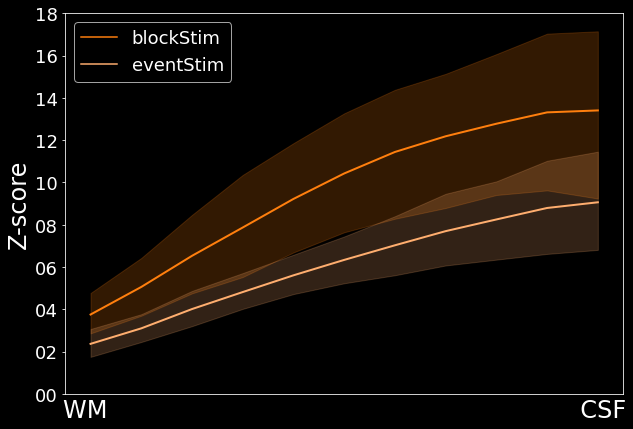
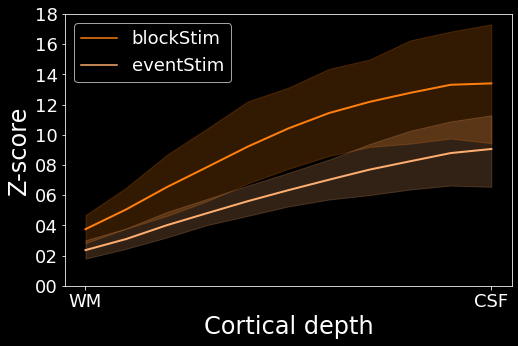
add plotting scripts

diff --git a/code/plotting.py b/code/plotting.py
@@ -25,7 +25,7 @@ plt.style.use('dark_background')
 #########################################
 
 # define figzize
-FS = (10, 7)
+FS = (8, 5)
 
 # define linewidth to 2
 LW = 2
@@ -39,6 +39,224 @@ tickLabelSize = 18
 # define fontsize legend text
 
 legendTextSize = 18
+
+TR = 1.3
+
+###########################################
+########## Plot block timcourses ##########
+###########################################
+
+data = pd.read_csv('../results/blockTimecourseResults.csv')
+
+fig, ax = plt.subplots(figsize=FS)
+
+sns.lineplot(ax=ax, data=data.loc[(data['focus']==focus)], x='x', y='data', hue='modality', palette = palette,linewidth=LW)
+
+
+ax.axvspan(4, 4+(30/TR), color='grey', alpha=0.2, lw=0)
+ax.set_ylabel('Signal change [%]', fontsize=labelSize)
+ax.set_xlabel('Time [s]', fontsize=labelSize)
+ax.legend(loc='lower center', fontsize=tickLabelSize)
+
+values = (np.arange(-4,len(data['x'].unique())-4,4)*TR).round().astype(int)
+spacing = np.arange(0,len(data['x'].unique()),4)
+ax.set_xticks(spacing,values, fontsize=tickLabelSize)
+
+ax.tick_params(axis='y', labelsize=tickLabelSize)
+ax.axhline(0,linestyle='--',color='white')
+plt.savefig('../results/blockTimecourseResults.png',
+    bbox_inches = 'tight')
+plt.show()
+
+
+#########################################
+########## Plot block profiles ##########
+#########################################
+
+# load data
+zscores = pd.read_csv('../results/blocksVsEventsData.csv')
+# Limit plotting to modality, focus and visiotactile stimulation and remove
+# long TR block stimulation for fair comparisons
+tmp = zscores.loc[
+    (zscores['runType']=='blockStim')
+    & (zscores['focus']==focus)
+    & (zscores['contrast']=='visiotactile')
+    & (zscores['stimType']!='blockStimLongTR')
+    ]
+
+palette = {
+    'BOLD': 'tab:orange',
+    'VASO': 'tab:blue'
+    }
+
+
+fig, ax = plt.subplots(figsize=FS)
+
+sns.lineplot(ax=ax,
+    data=tmp,
+    x='layer',
+    y='data',
+    hue='modality',
+    palette=palette,
+    linewidth = LW
+    )
+
+
+plt.ylabel(f'Z-score',
+    fontsize=labelSize
+    )
+
+plt.xlabel('Cortical depth',
+    fontsize = labelSize
+    )
+
+
+ax.set_xticks([1,11],['WM', 'CSF'],
+    fontsize = tickLabelSize
+    )
+
+# Remove ticks for x-axis
+# plt.xticks([])
+
+
+plt.yticks(fontsize = tickLabelSize)
+
+plt.legend(loc = 'upper left',
+    fontsize = legendTextSize
+    )
+
+current_values = plt.gca().get_yticks()
+plt.gca().set_yticklabels(['{:02d}'.format(int(x)) for x in current_values])
+
+plt.savefig(f'../results/Group_v1_blockProfiles.png',
+    bbox_inches = 'tight')
+
+plt.show()
+
+
+#####################################
+########## Plot event FIRs ##########
+#####################################
+
+data = pd.read_csv('../results/FIR_results.csv')
+palettesLayers = {'VASO':['#1f77b4','#7dadd9','#c9e5ff'],
+'BOLD':['#ff7f0e', '#ffae6f','#ffdbc2']}
+
+
+for i, modality in enumerate(['BOLD', 'VASO']):
+
+    fig, ax = plt.subplots(figsize=FS)
+
+    tmp = data.loc[(data['modality']==modality)&(data['focus']=='v1')]
+
+    sns.lineplot(ax=ax, data=tmp , x="volume", y="data", hue='layer',palette=palettesLayers[modality],linewidth=2)
+
+
+    yLimits = ax.get_ylim()
+    ax.set_ylim(-2,9)
+    ax.set_yticks(range(-2,10,2),fontsize=18)
+
+    # prepare x-ticks
+    ticks = range(1,12,2)
+    labels = (np.arange(0,11,2)*1.3).round(decimals=1)
+    for k,label in enumerate(labels):
+        if (label - int(label) == 0):
+            labels[k] = int(label)
+
+    ax.yaxis.set_tick_params(labelsize=tickLabelSize)
+    ax.xaxis.set_tick_params(labelsize=tickLabelSize)
+
+    if i == 0:
+        ax.set_ylabel(r'Signal [$\beta$]', fontsize=labelSize)
+    else:
+        ax.set_ylabel(r'', fontsize=labelSize)
+        ax.set_yticks([])
+
+    ax.legend(loc='upper right',fontsize=tickLabelSize)
+
+    # tweak x-axis
+    ax.set_xticks(ticks)
+    ax.set_xticklabels(labels,
+        fontsize=tickLabelSize)
+    ax.set_xlabel('Time [s]',
+        fontsize=labelSize)
+    ax.set_title(modality, fontsize=36)
+
+    # draw lines
+    ax.axvspan(1, 3/1.3, color='#e5e5e5', alpha=0.2, lw=0, label = 'stimulation on')
+    ax.axhline(0,linestyle='--',color='white')
+
+
+    # ax.axvline((np.arange(0,11)*1.3).round(decimals=1)[3],linestyle='--',color='white')
+
+    plt.savefig(f'../results/groupLevel_{focus}_{modality}_eventResults_withLayers.png', bbox_inches = "tight")
+
+
+    plt.show()
+
+#########################################
+########## Plot event profiles ##########
+#########################################
+
+# load data
+zscores = pd.read_csv('../results/blocksVsEventsData.csv')
+# Limit plotting to modality, focus and visiotactile stimulation and remove
+# long TR block stimulation for fair comparisons
+tmp = zscores.loc[
+    (zscores['runType']=='eventStim')
+    & (zscores['focus']==focus)
+    & (zscores['contrast']=='visiotactile')
+    & (zscores['stimType']!='blockStimLongTR')
+    ]
+
+palette = {
+    'BOLD': 'tab:orange',
+    'VASO': 'tab:blue'
+    }
+
+
+fig, ax = plt.subplots(figsize=FS)
+
+sns.lineplot(ax=ax,
+    data=tmp,
+    x='layer',
+    y='data',
+    hue='modality',
+    palette=palette,
+    linewidth = LW
+    )
+
+
+plt.ylabel(f'Z-score',
+    fontsize=labelSize
+    )
+
+plt.xlabel('Cortical depth',
+    fontsize = labelSize
+    )
+
+
+ax.set_xticks([1,11],['WM', 'CSF'],
+    fontsize = tickLabelSize
+    )
+
+# Remove ticks for x-axis
+# plt.xticks([])
+
+
+plt.yticks(fontsize = tickLabelSize)
+
+plt.legend(loc = 'upper left',
+    fontsize = legendTextSize
+    )
+
+current_values = plt.gca().get_yticks()
+plt.gca().set_yticklabels(['{:02d}'.format(int(x)) for x in current_values])
+
+plt.savefig(f'../results/Group_v1_eventProfiles.png',
+    bbox_inches = 'tight')
+
+plt.show()
 
 
 ###########################################
@@ -85,20 +303,23 @@ for modality, cmap in zip(['VASO', 'BOLD'], palettes):
 
 
     plt.ylabel(f'Z-score',
-        fontsize=labelSize)
+        fontsize=labelSize
+        )
 
-    plt.xlabel(
-        'WM'
-        + '                                                              '
-        + 'CSF',
+    plt.xlabel('Cortical depth',
         fontsize = labelSize
         )
 
+
+    ax.set_xticks([1,11],['WM', 'CSF'],
+        fontsize = tickLabelSize
+        )
+
     # Remove ticks for x-axis
-    plt.xticks([])
+    # plt.xticks([])
 
 
-    plt.yticks(fontsize=tickLabelSize)
+    plt.yticks(fontsize = tickLabelSize)
 
     # Set y-limits for modalities
     if modality == 'VASO':
@@ -118,3 +339,62 @@ for modality, cmap in zip(['VASO', 'BOLD'], palettes):
         bbox_inches = 'tight')
 
     plt.show()
+
+
+
+##########################################
+########## Plot efficiency data ##########
+##########################################
+
+
+data = pd.read_csv('../results/efficiencyData.csv')
+data = data.loc[(data['focus']=='v1')]
+
+palette = {
+    'BOLD': 'tab:orange',
+    'VASO': 'tab:blue'}
+
+
+fig, ax = plt.subplots(figsize=FS)
+
+
+sns.lineplot(ax= ax,
+    data=data,
+    x='nrTrials',
+    y='score',
+    hue='modality',
+    palette= palette,
+    linewidth=LW
+    )
+
+# Set labels and sizes
+ax.set_ylabel('Error',
+    fontsize=labelSize)
+ax.set_xlabel('Averaged trials',
+    fontsize=labelSize)
+
+
+ax.yaxis.set_tick_params(labelsize=tickLabelSize)
+ax.xaxis.set_tick_params(labelsize=tickLabelSize)
+
+ax.set_ylim(0,25)
+
+plt.legend(loc = 'upper right',
+    fontsize = legendTextSize
+    )
+
+
+# ax.vlines(timePoint,
+#     ymin=0,
+#     ymax=30,
+#     label='5% error',
+#     linestyle='dashed',
+#     color='white'
+#     )
+
+
+# fig.tight_layout()
+plt.savefig(f'../results/Group_v1_stabilizing.png',
+    bbox_inches = 'tight')
+
+plt.show()
